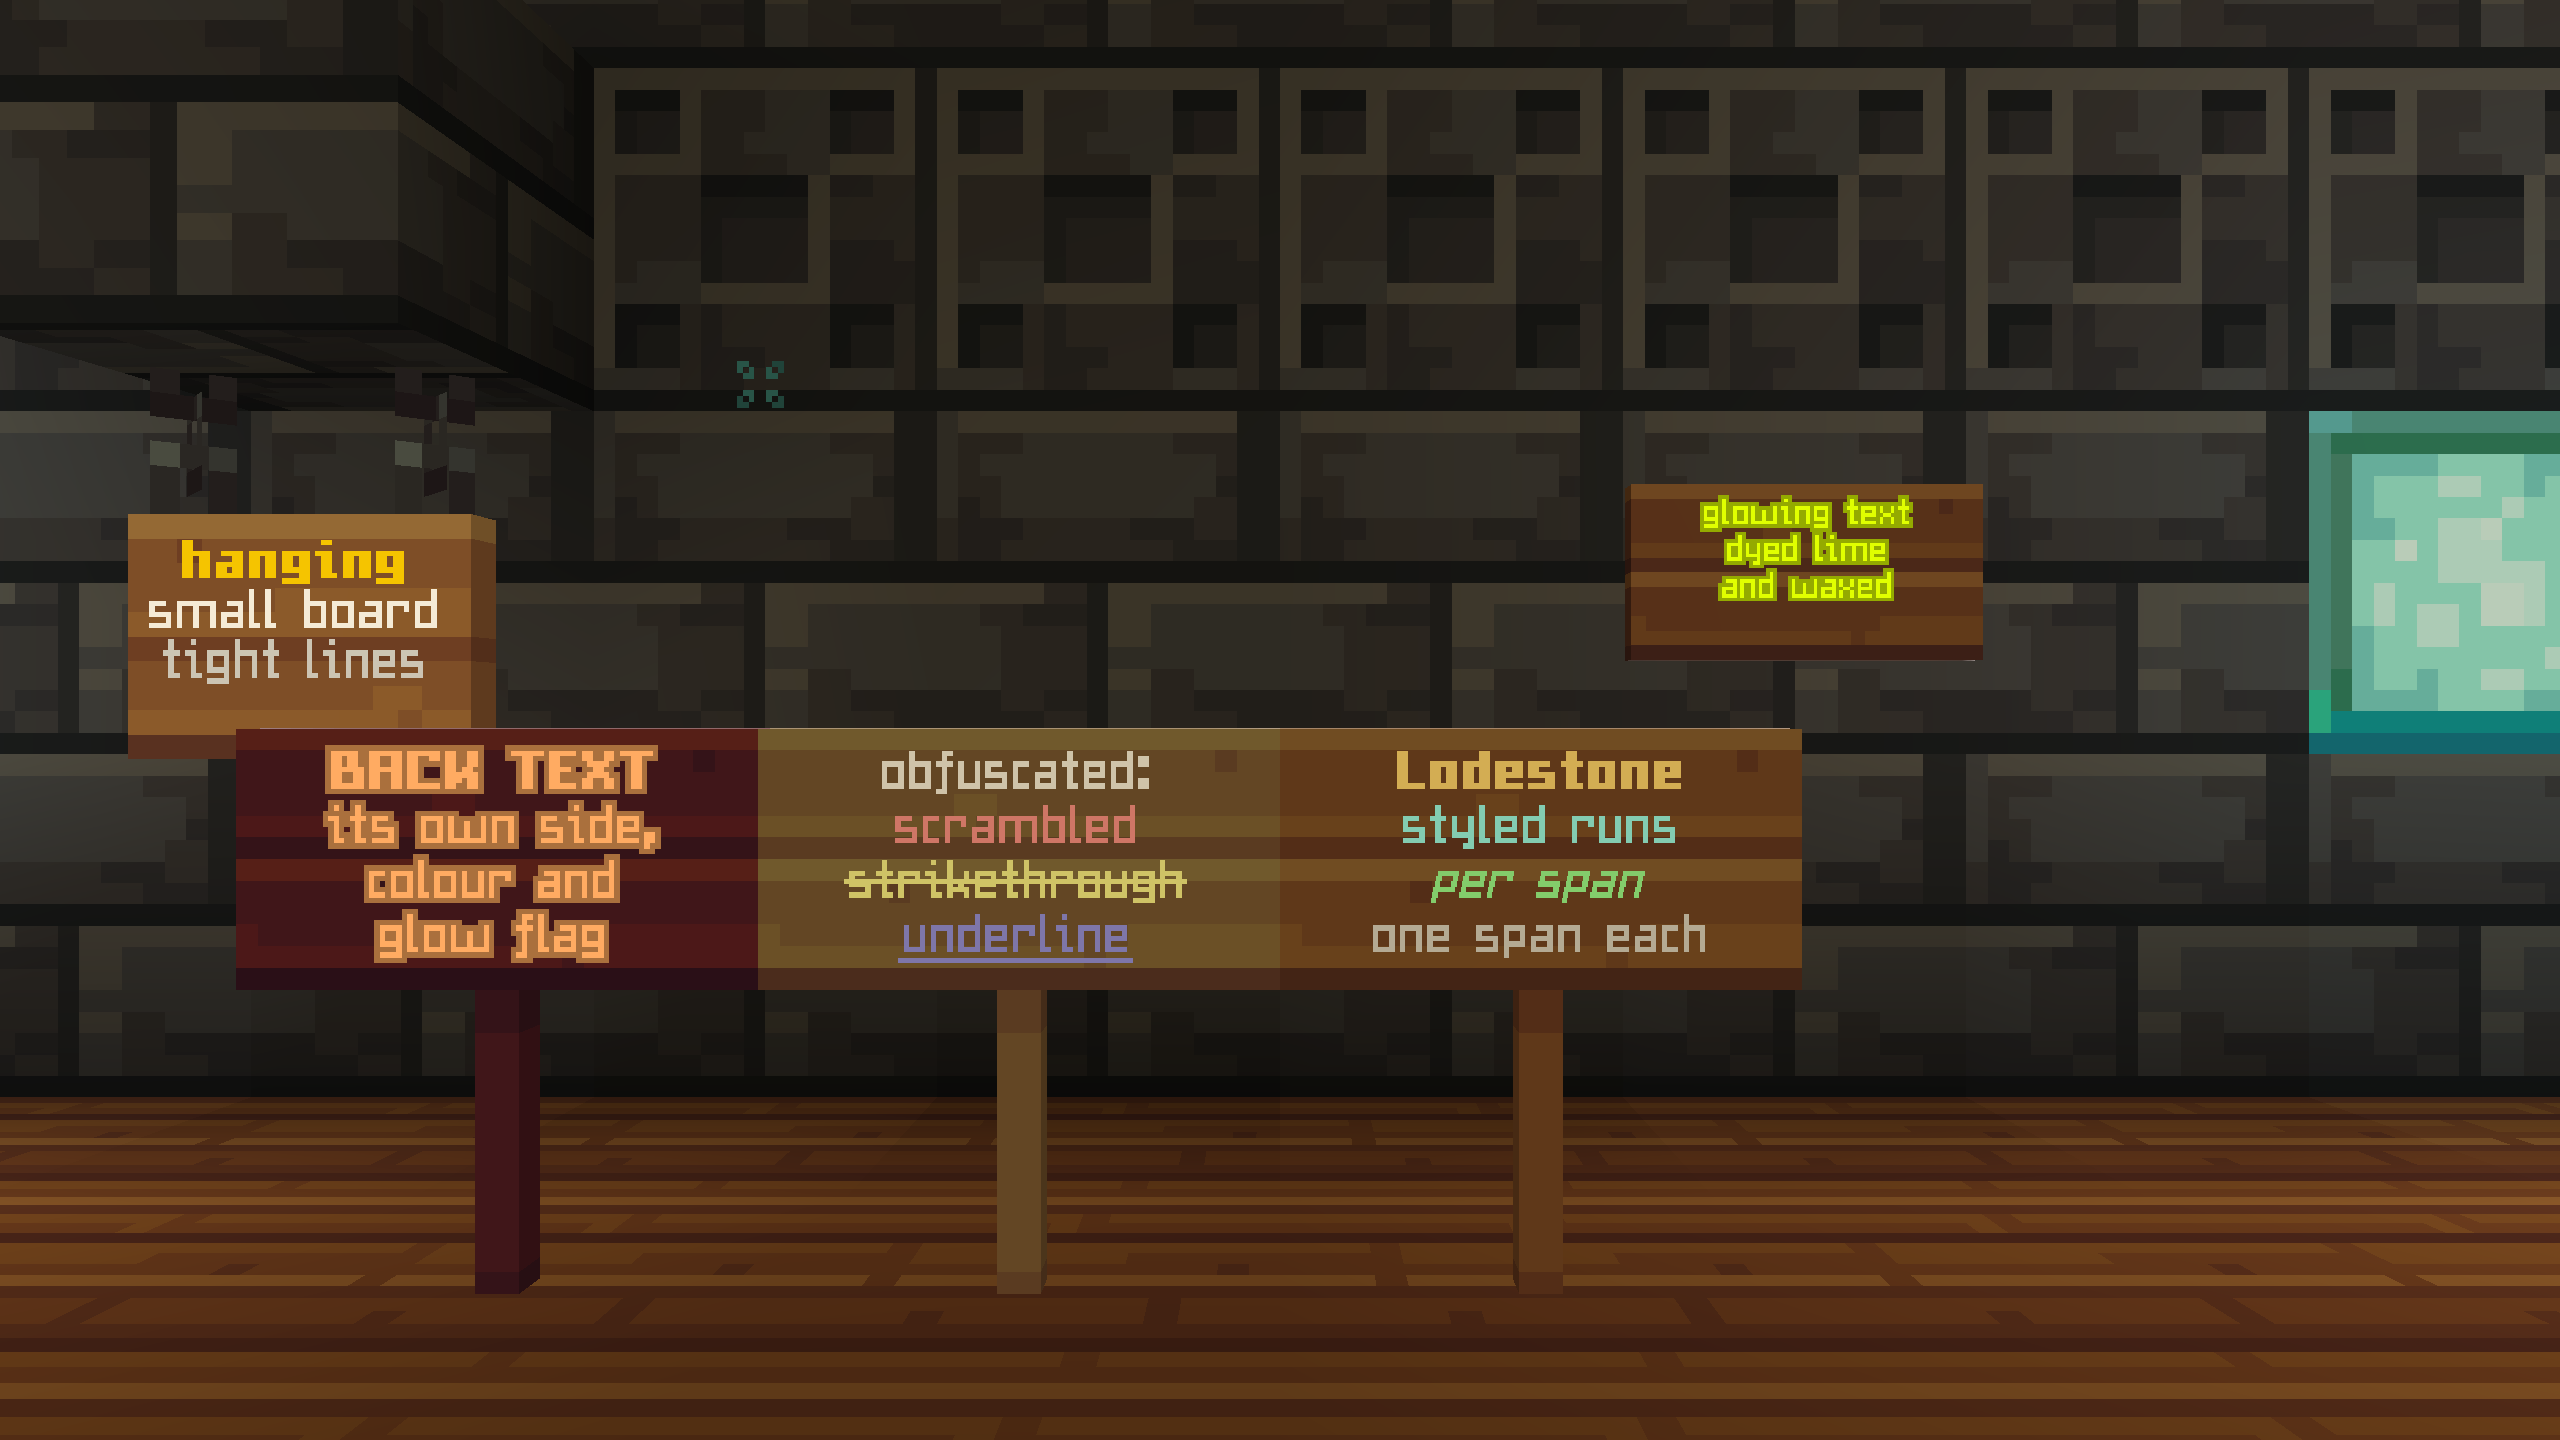
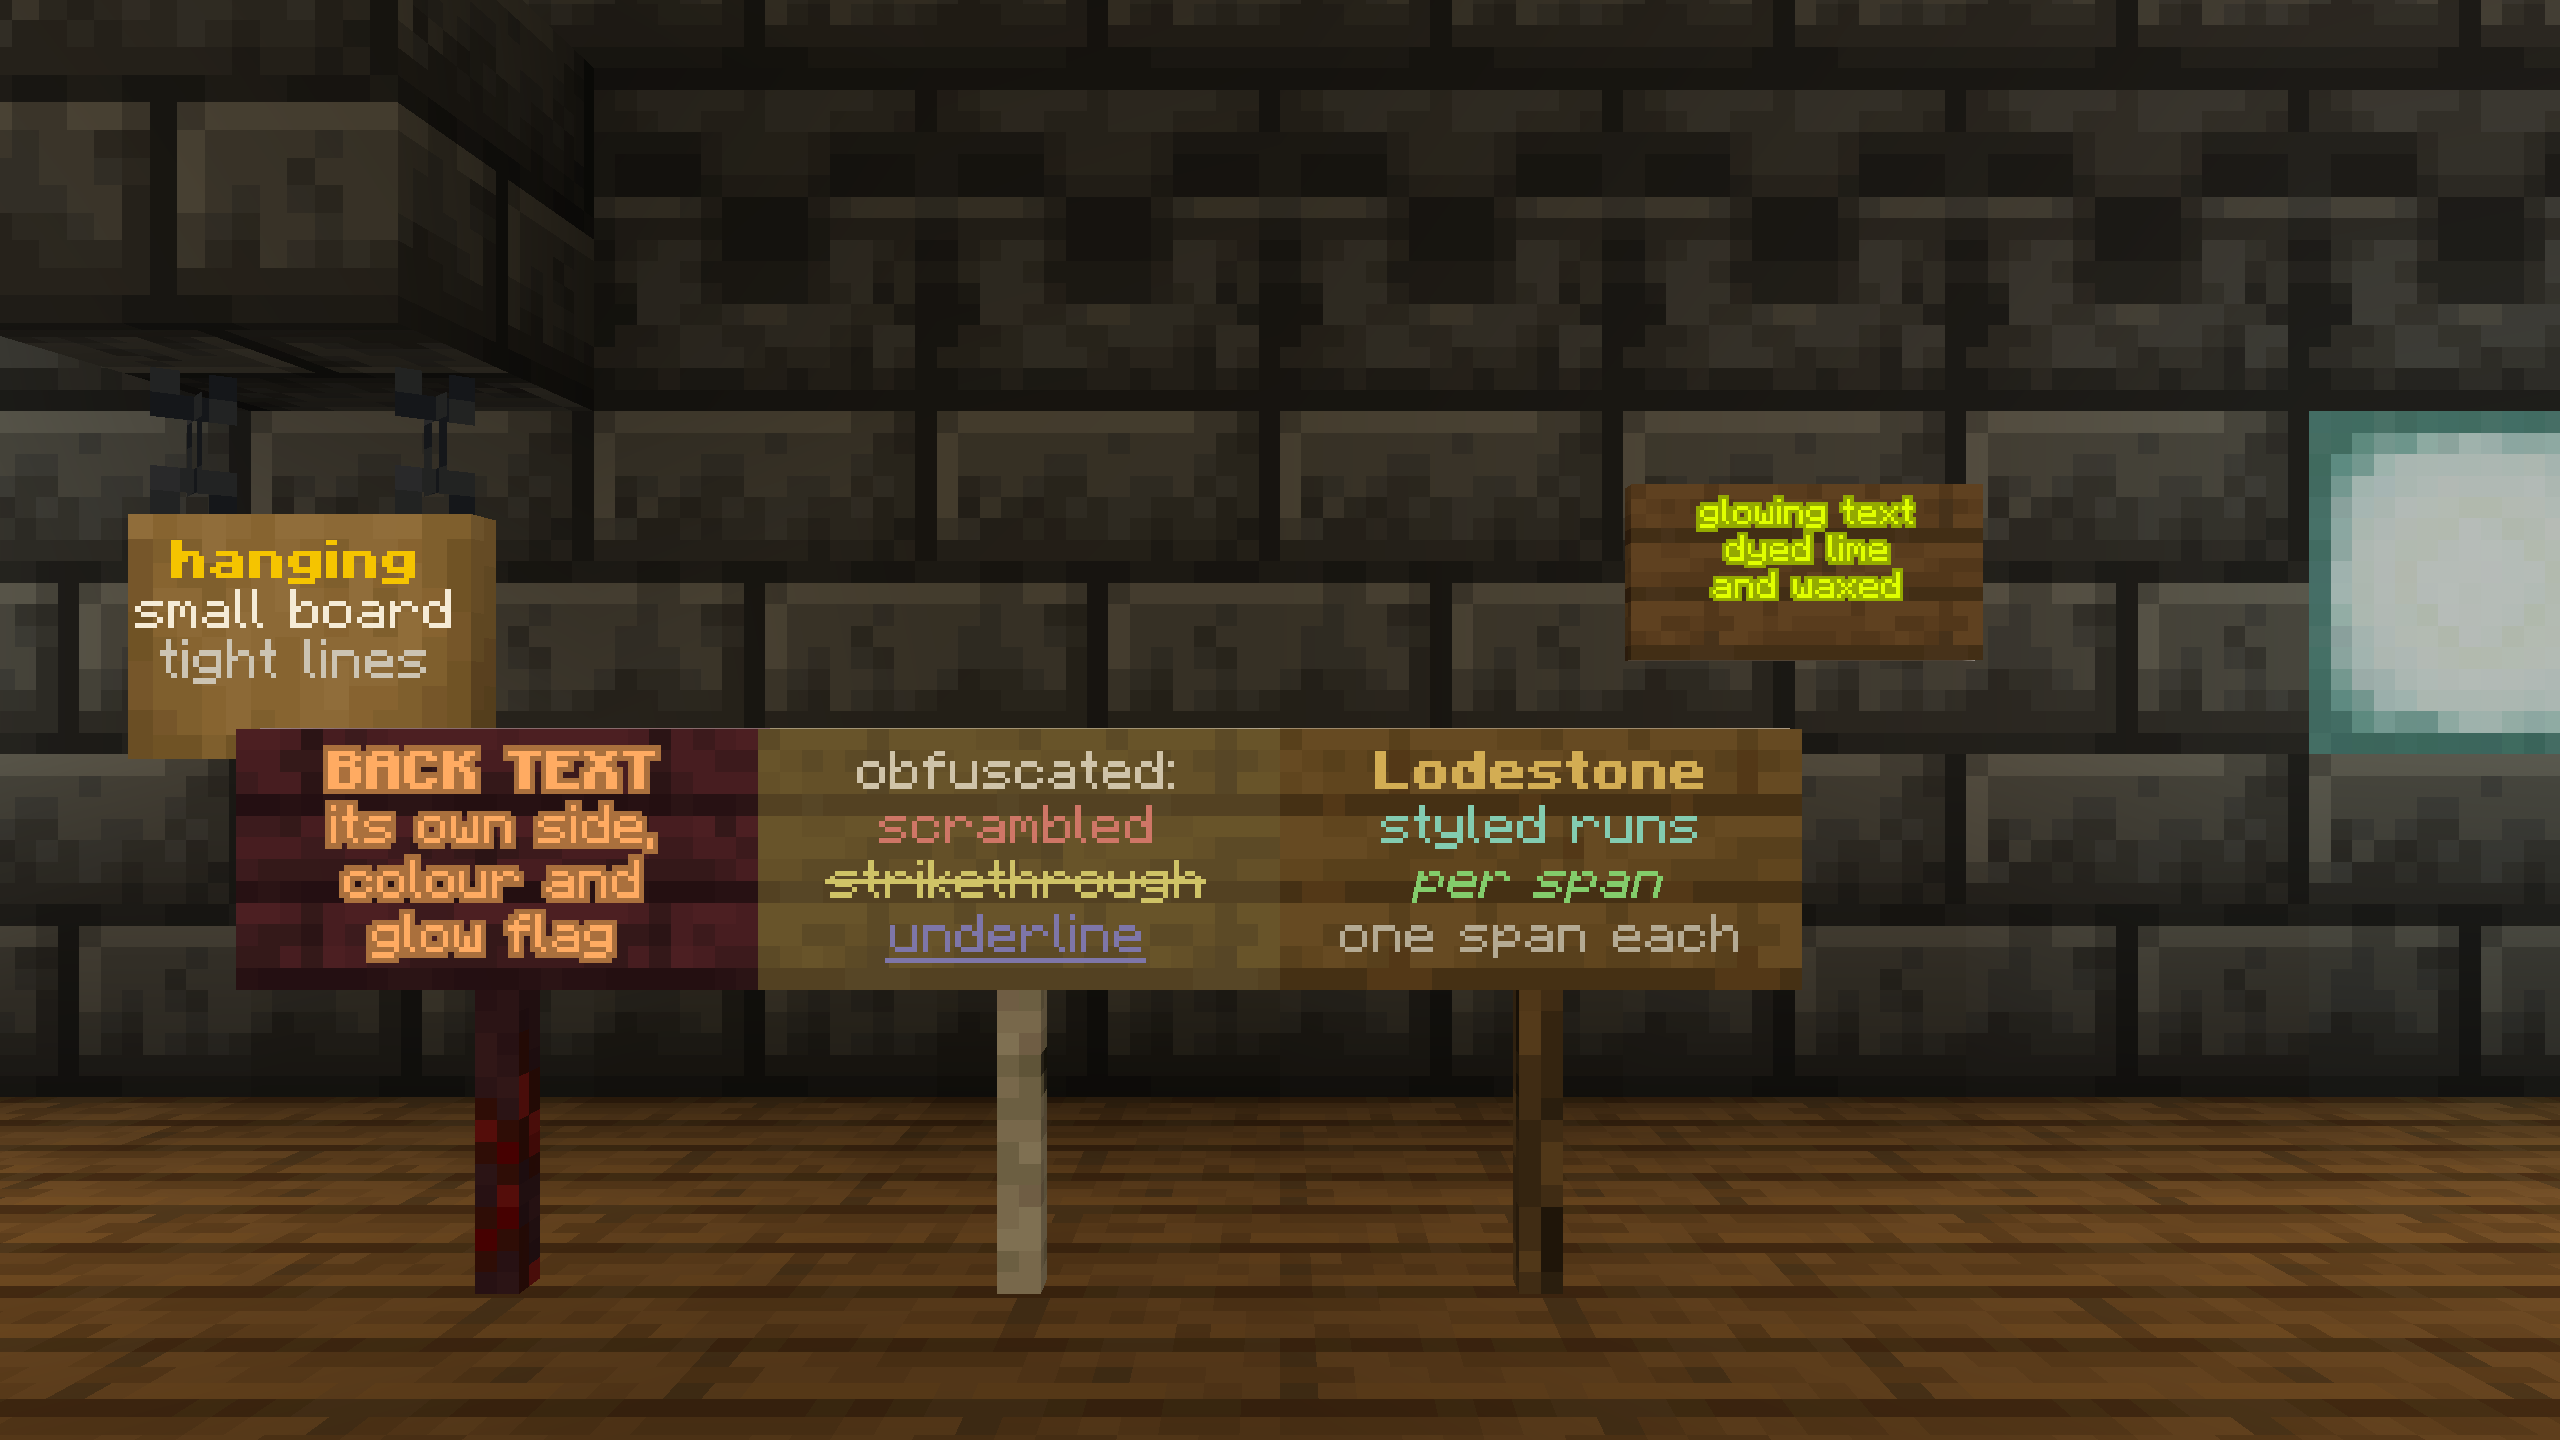
README screenshots recaptured on 26.3 with the vanilla 26.3 assets from a live 777 session; scenes name 26.3; README says the built-in server speaks 777; the screenshots recipe targets the gpu test binary

diff --git a/docs/screenshots.md b/docs/screenshots.md
@@ -3,8 +3,8 @@
 ## What it is
 
 The harness that produces the README's in-game images under `docs/images/`. Every
-PNG is this client rendering a real, live session against the flat creative 26.2
-oracle — no mock-ups, no compositing, no editing. `just screenshots` regenerates
+PNG is this client rendering a real, live session against the flat creative 26.3
+oracle (rendered with the vanilla assets in `LODESTONE_ASSETS`, e.g. `.cache/benchmarks/vanilla-26.3-assets`) — no mock-ups, no compositing, no editing. `just screenshots` regenerates
 the whole set, so the images can be refreshed whenever the renderer changes instead
 of drifting into a record of how the client looked one afternoon.
 
@@ -14,7 +14,7 @@ window's swapchain, this harness reads a headless render target.
 
 ## How it works
 
-`crates/lodestone-shell/tests/capture_screenshots.rs` is a live gate that ends at a
+`crates/lodestone-shell/tests/gpu/capture_screenshots.rs` is a live gate that ends at a
 file rather than an assertion: it joins the oracle through `Sim` (the same type
 `WindowApp` drives), installs every render source `app/session.rs`/`app/redraw.rs`
 install in production, then per scene runs the scene's RCON commands, drains the

diff --git a/README.md b/README.md
@@ -3,7 +3,7 @@
 Lodestone is an unofficial Minecraft Java Edition client written in Rust. You can
 play singleplayer or connect to multiplayer servers. The current release is Minecraft 26.3: the default build joins
 26.3 and 26.2 servers, and every release back to 1.7.10 with the matching version family enabled.
-The built-in singleplayer server still speaks the 26.2 protocol.
+The built-in singleplayer server speaks 26.3 (protocol 777), with 26.2-era world generation for now.
 
 Work in progress. Gameplay, rendering, and world generation still have bugs and differences
 from the original game.
